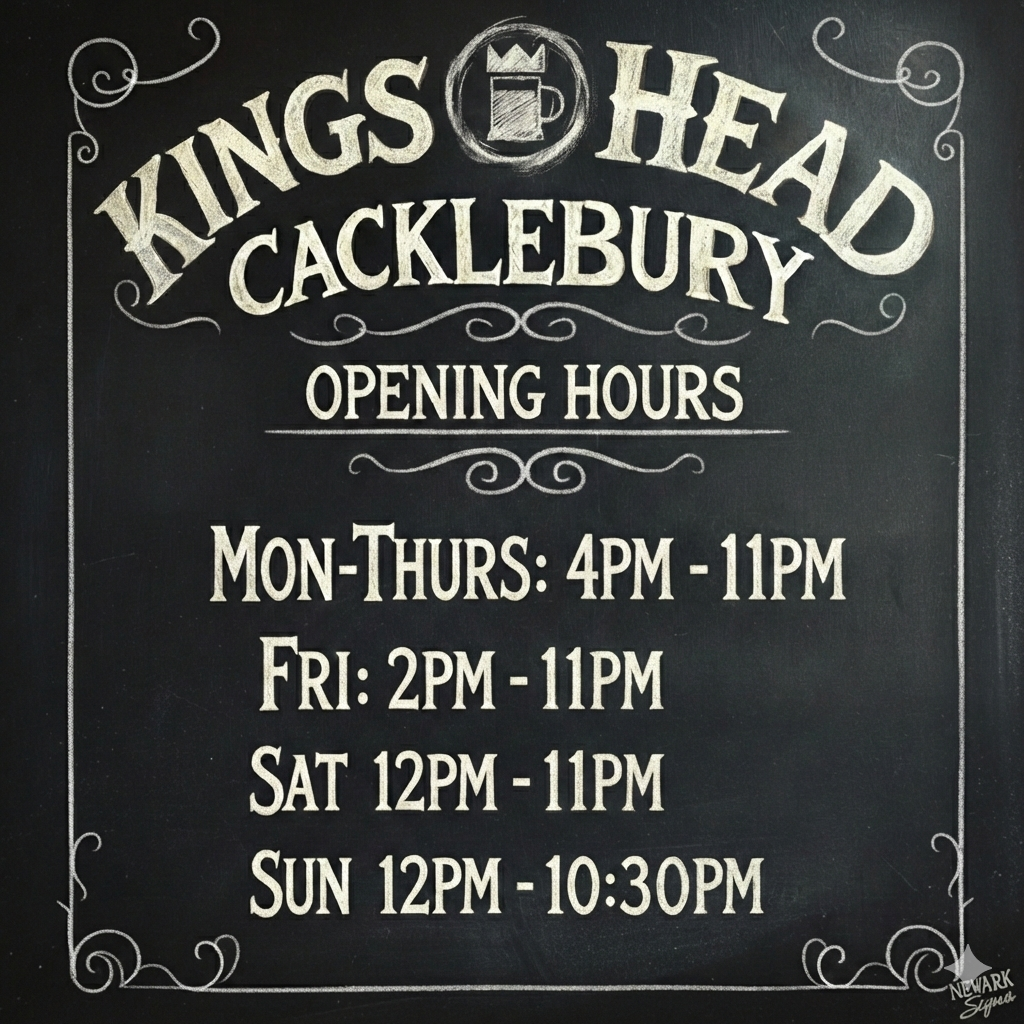
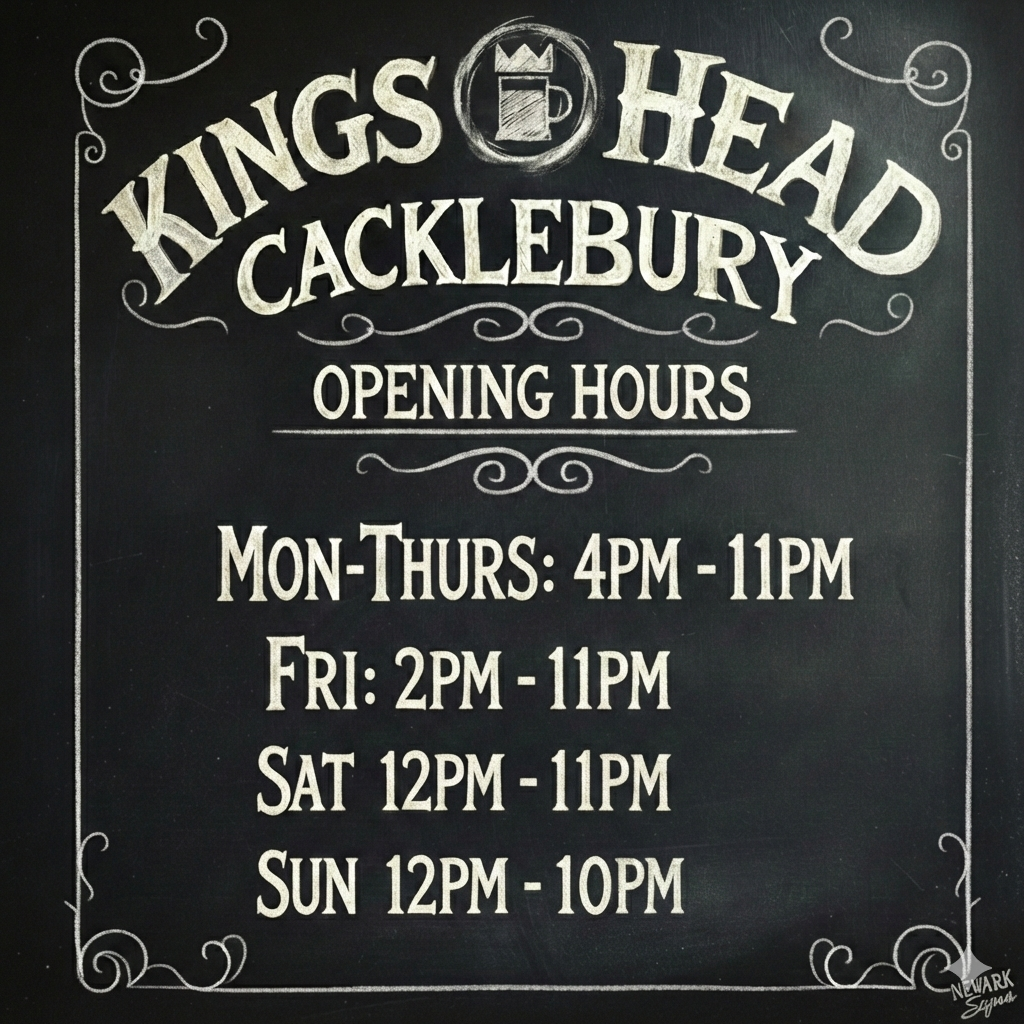
sunday the opening hours finish at 10pm

Changed region(s): [[0.0625, 0.0, 1.0, 1.0], [0.25, 0.625, 0.75, 0.9062], [0.1875, 0.0, 0.2188, 0.0625]]

diff --git a/src/App.tsx b/src/App.tsx
@@ -458,7 +458,8 @@ function App() {
                       <img
                         src="/standard_opening_hours.png"
                         alt="Opening Hours Blackboard"
-                        className="responsive-image responsive-image--mobile-contain responsive-image--cover-top md:responsive-image--cover"
+                        className="responsive-image"
+                        style={{ backgroundColor: '#191b1d' }}
                       />
                     </div>
                     <div className="p-6">
@@ -472,7 +473,7 @@ function App() {
                         <p>Mon-Thurs: 4pm - 11pm</p>
                         <p>Fri: 2pm - 11pm</p>
                         <p>Sat: 12pm - 11pm</p>
-                        <p>Sun: 12pm - 10:30pm</p>
+                        <p>Sun: 12pm - 10pm</p>
                       </div>
                     </div>
                   </div>
